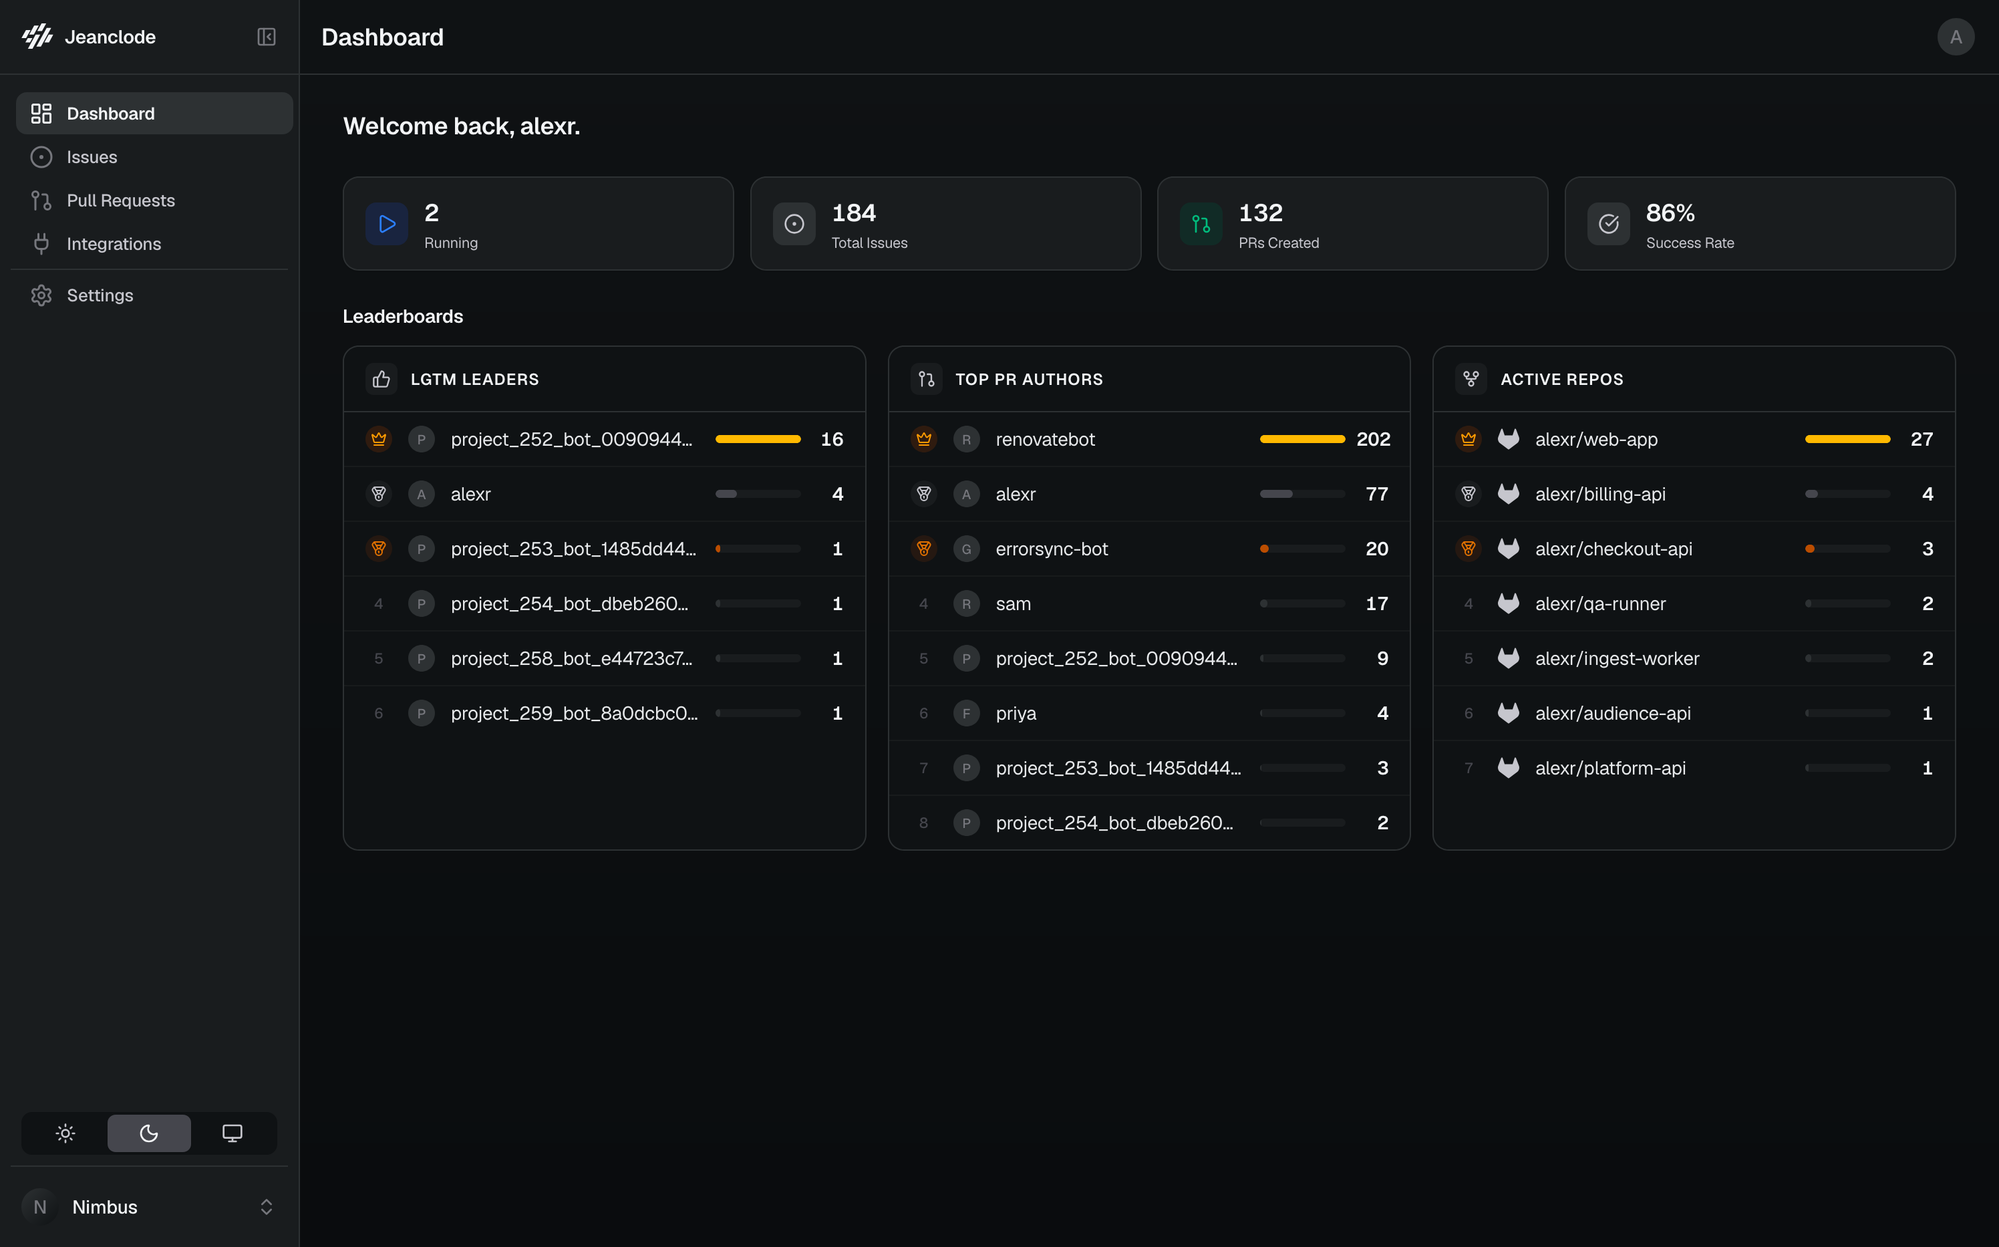
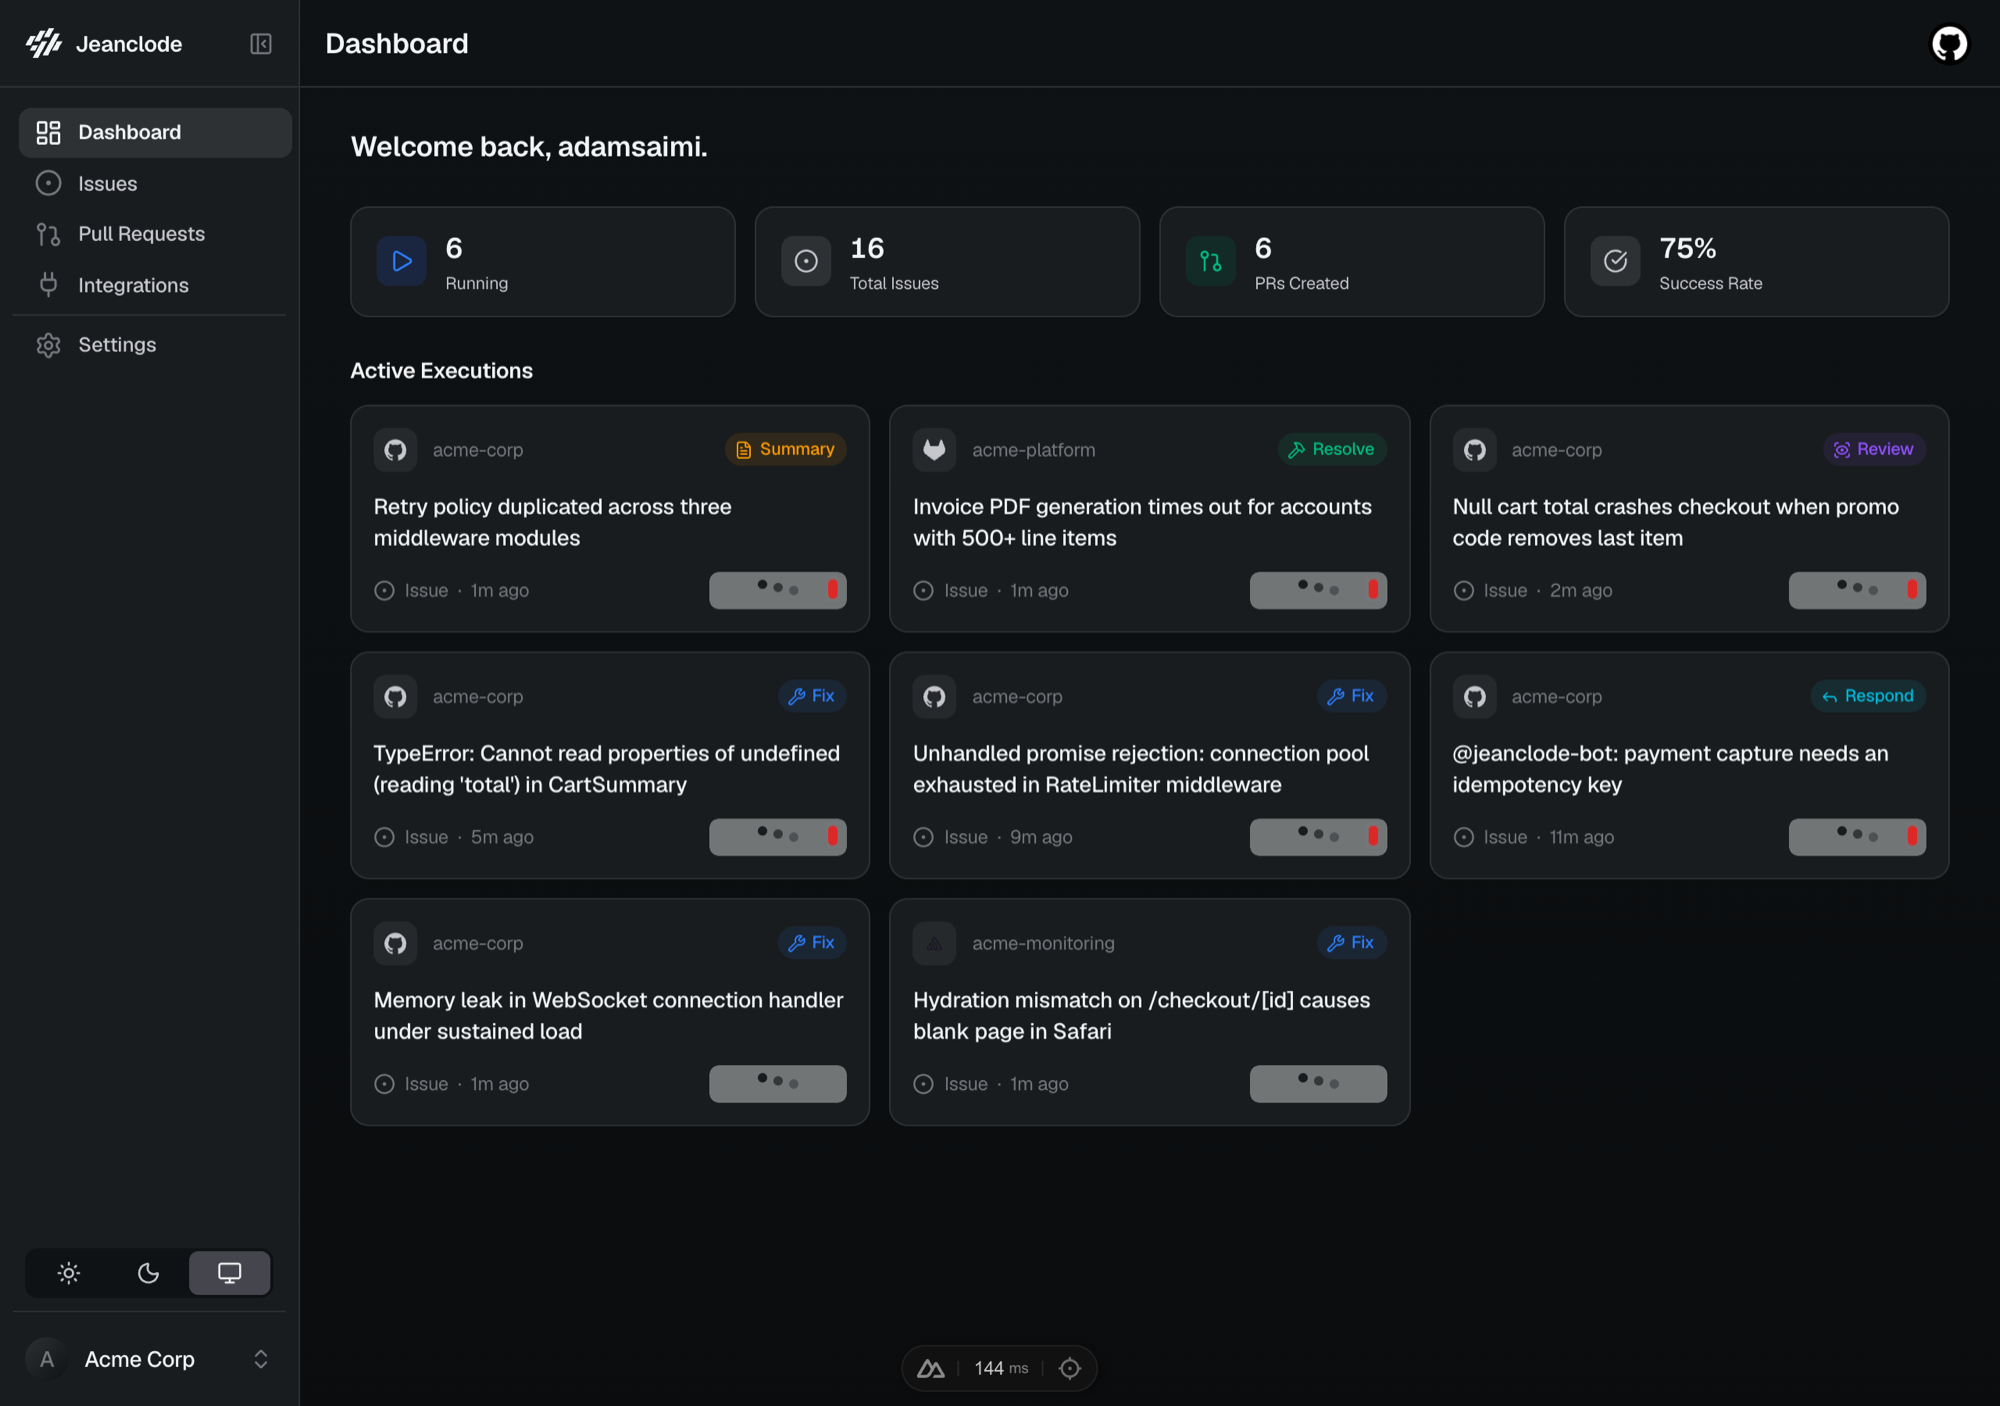
docs: add dashboard screenshots and install instructions to README
Quick start jumped straight to CLI usage with no install step and no
platform setup. Also swaps the website docs' dashboard screenshot,
which was stale (leaderboards panel, no Active Executions grid).

diff --git a/README.md b/README.md
@@ -2,6 +2,8 @@
 
 Jeanclode is a self-hosted autonomous coding agent that runs on your own infrastructure. It listens to events from Sentry, GitHub, and GitLab, then runs purpose-built multi-agent workflows on the Claude Agent SDK to triage and fix issues — opening PRs automatically without human intervention.
 
+![Jeanclode dashboard showing active agent executions](./docs/images/dashboard.png)
+
 ## What it does
 
 - **Sentry fix** — receives Sentry error webhooks, triages issues in parallel, groups related bugs by root cause, and opens fix PRs with code changes; a fix that spans several repos gets a PR in each, on one shared branch
@@ -36,6 +38,16 @@ website/           Marketing site, docs and blog
 
 ## Quick start
 
+### CLI (code review & PR summary)
+
+Requires Python 3.14+ and a working [Claude Code](https://claude.com/claude-code) setup (`claude` on `PATH`, authenticated).
+
+```bash
+pip install jeanclode
+# or
+uv tool install jeanclode
+```
+
 ```bash
 # Review a GitHub PR
 jeanclode https://github.com/org/repo/pull/123
@@ -47,8 +59,25 @@ jeanclode https://gitlab.com/group/project/-/merge_requests/42
 jeanclode summary https://github.com/org/repo/pull/123
 ```
 
-The CLI covers code review and PR summary. Sentry Fix and Issue Resolve
-run through the self-hosted platform (webhook-driven — see `backend/`).
+The CLI covers code review and PR summary standalone, against any repo you can
+already reach. Sentry Fix, Issue Resolve, and the dashboard shown above run
+through the self-hosted platform instead (webhook-driven, its own backend +
+frontend — see `backend/` and `frontend/`).
+
+### Self-hosted platform (Sentry Fix, Issue Resolve, dashboard)
+
+Requires Docker.
+
+```bash
+git clone https://github.com/jeanclode-hq/jeanclode.git
+cd jeanclode
+cp .env.example .env   # fill in the required secrets — see comments in the file
+docker compose --profile all up -d
+```
+
+Open `http://localhost:3000/admin` — the admin page walks you through
+connecting GitHub / GitLab / Sentry and an LLM credential. Once set up, sign
+in at `http://localhost:3000` to see the dashboard.
 
 ## Development
 
